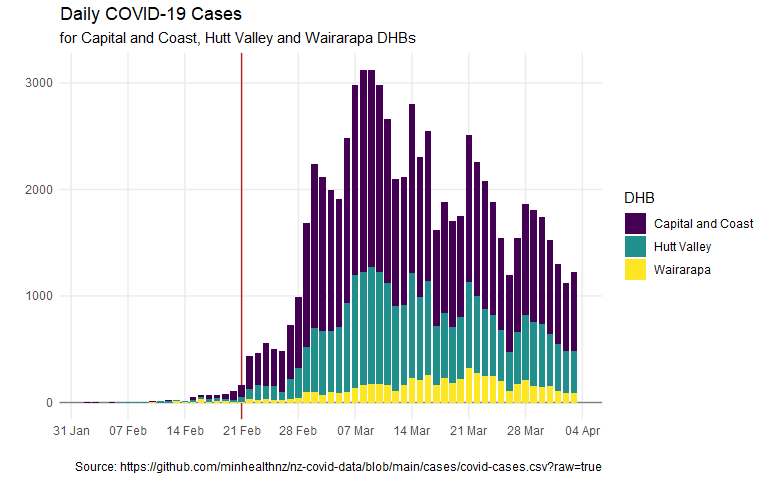
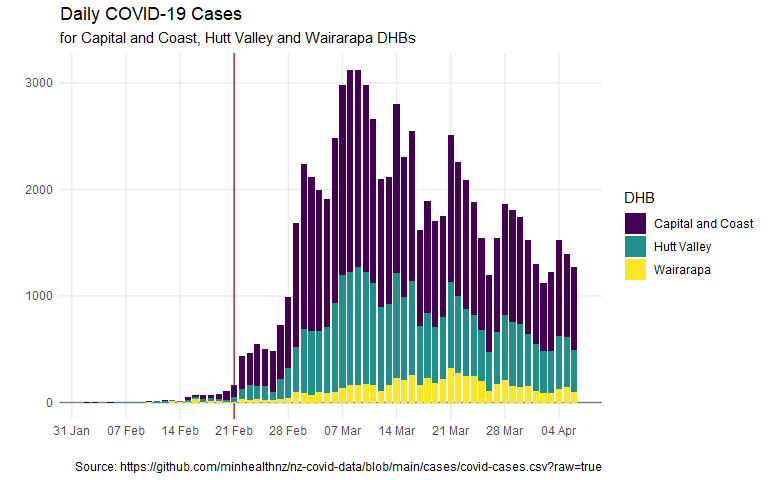
Refresh for 20220407

Changed region(s): [[0.125, 0.125, 0.7812, 0.9062]]

diff --git a/covid-time-series.md b/covid-time-series.md
@@ -16,14 +16,11 @@ cases_df <- read_csv(case_data_url) %>%
   clean_names()
 ```
 
-    ## Warning: One or more parsing issues, see `problems()` for details
-
-    ## Rows: 703467 Columns: 7
+    ## Rows: 741987 Columns: 7
 
     ## -- Column specification --------------------------------------------------------
     ## Delimiter: ","
-    ## chr  (5): Case Status, Sex, Age group, DHB, Overseas travel
-    ## lgl  (1): Historical
+    ## chr  (6): Case Status, Sex, Age group, DHB, Overseas travel, Historical
     ## date (1): Report Date
 
     ## 
@@ -147,7 +144,7 @@ maxima <- dhb_cases_stl_df %>%
 
 Looking at raw case numbers, the peak on 2022-03-09 was about 2.8 times what it is now.
 
-But when adjusting for the weekly pattern, it was 2.1 times the current adjusted value, and the trend was about 1.9 times the current trend line.
+But when adjusting for the weekly pattern, it was 2.9 times the current adjusted value, and the trend was about 2.4 times the current trend line.
 
 While the trend is possibly over-smoothed, the peak coincinded with the strong weekly pattern, suggesting that the apparent difference between the peak and now was exaggerated by weekly differences in reporting.
 
